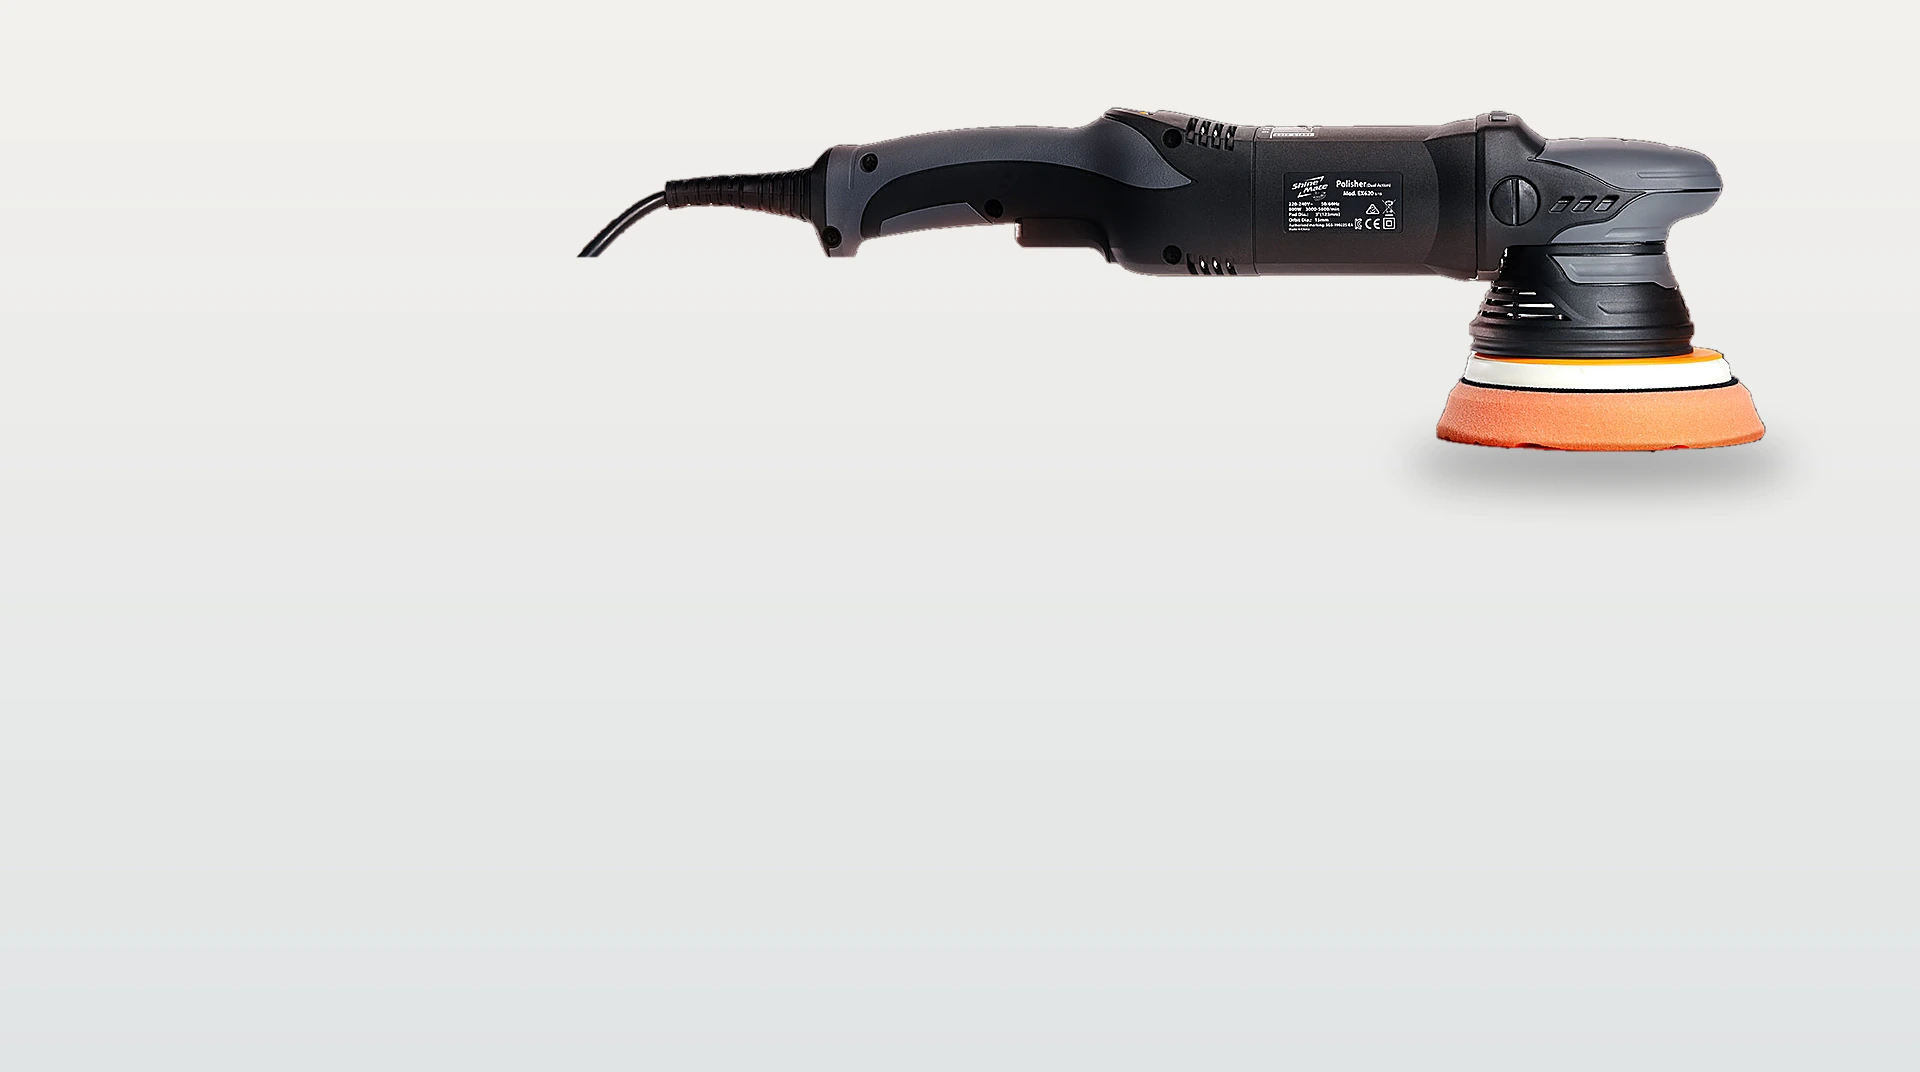
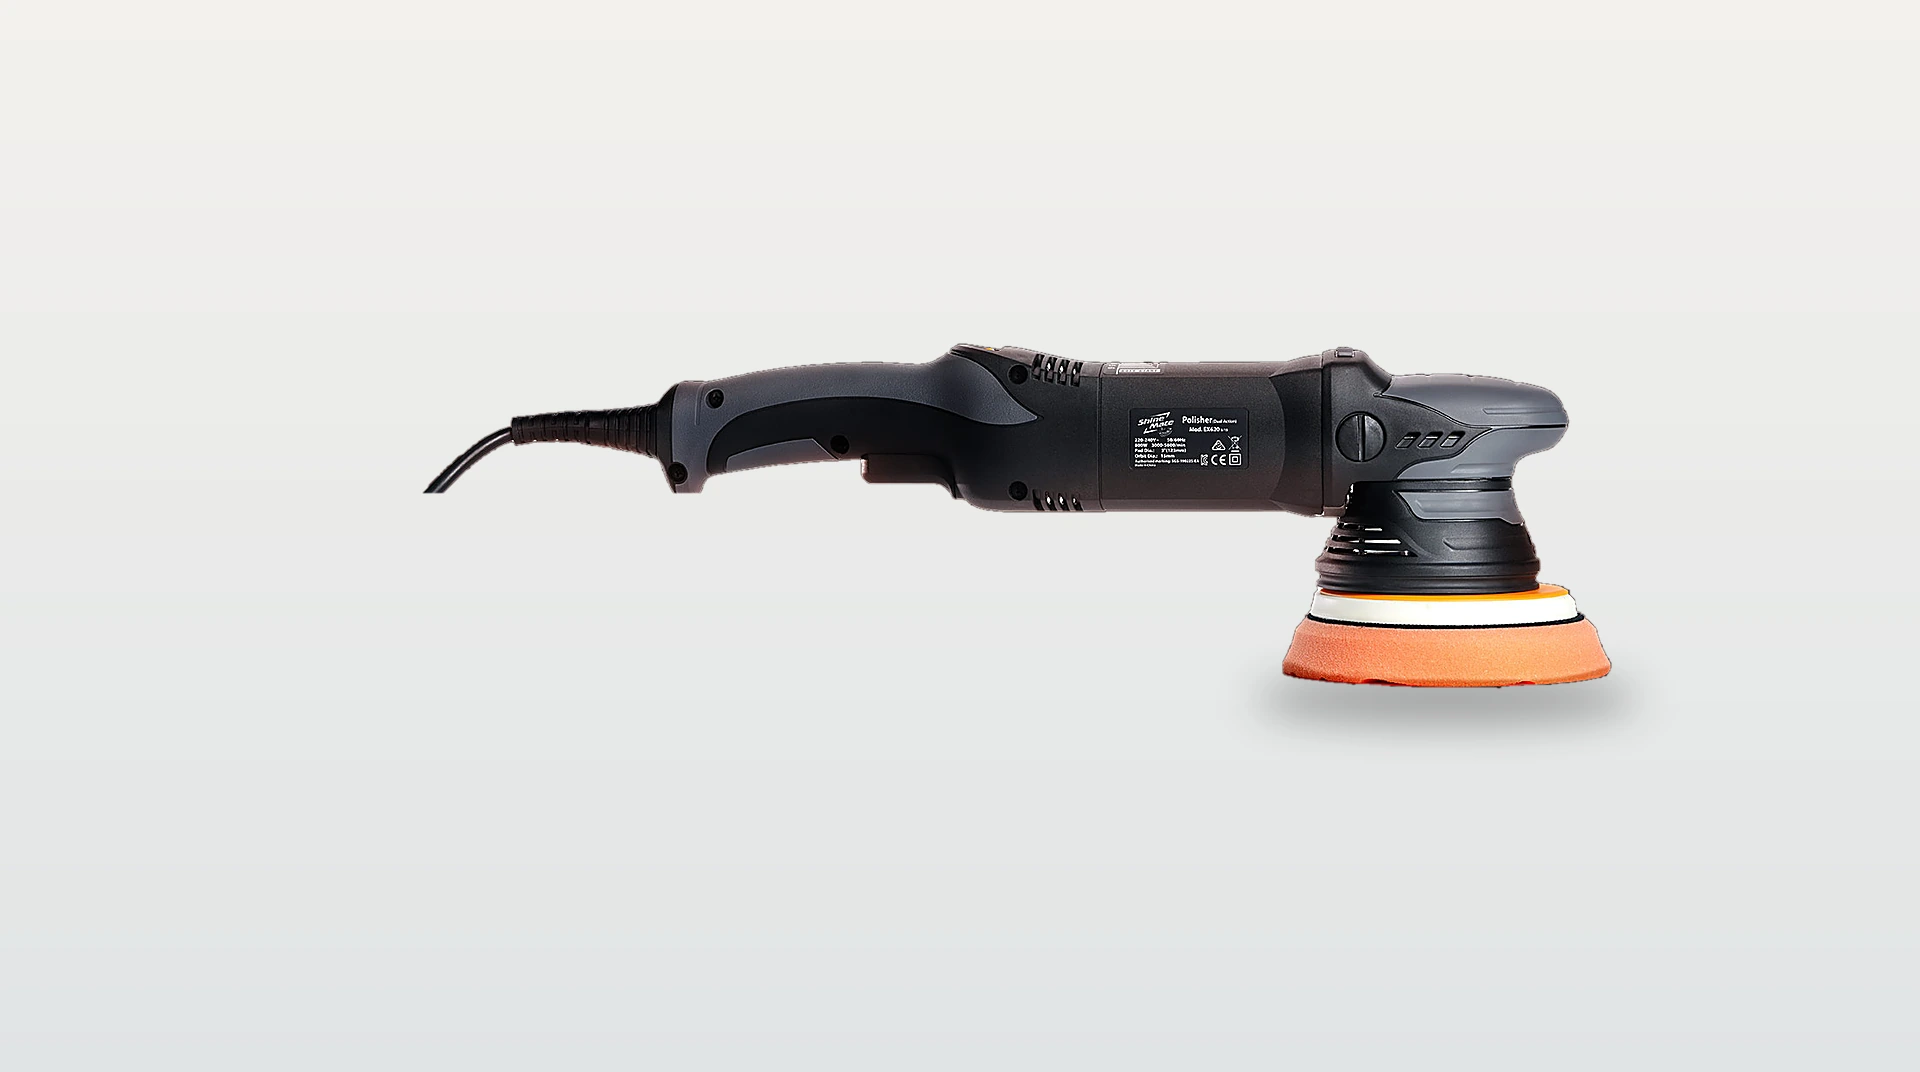
Сдвинуть фото EX620 вниз-влево в кадре, кнопка "Смотреть оборудование" ведёт на отдельную страницу каталога
Раньше машинка была прижата к верхнему краю кадра и частично обрезана
сверху — сдвинул композицию вниз и левее, теперь видна целиком.

Кнопка на хиро-баннере раньше просто скроллила к разделу на этой же
странице (#equipment) — как на оригинальном shinemate.com, где кнопки
ведут на отдельные страницы, сделал переход на настоящую страницу
каталога.

Changed region(s): [[0.2188, 0.0924, 0.9375, 0.708]]

diff --git a/src/components/scenes/Hero.tsx b/src/components/scenes/Hero.tsx
@@ -289,7 +289,7 @@ export function Hero() {
           {...enter(1)}
           className="mt-7 flex flex-wrap items-center gap-3 lg:mt-10"
         >
-          <MagneticButton href="#equipment">Смотреть оборудование</MagneticButton>
+          <MagneticButton href="catalog">Смотреть оборудование</MagneticButton>
           <MagneticButton href="#contacts" variant="ghost">
             Запросить прайс
           </MagneticButton>
